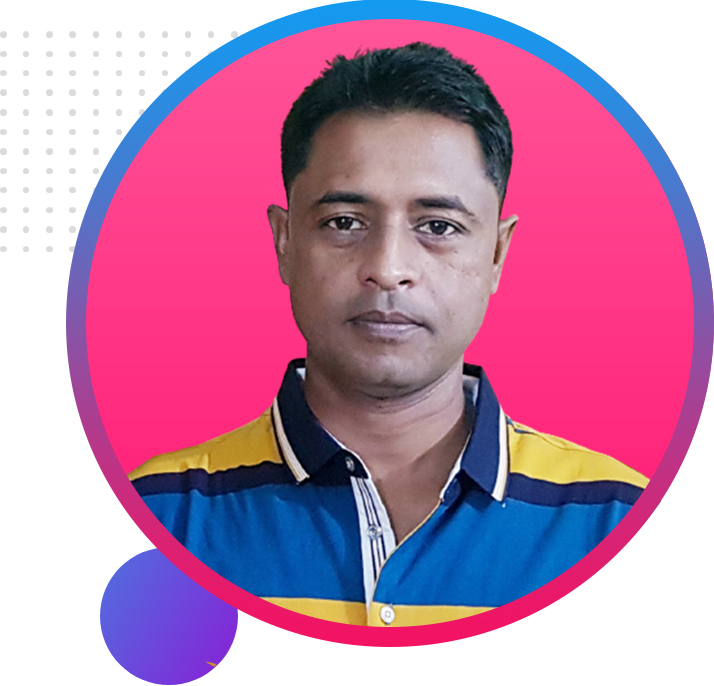
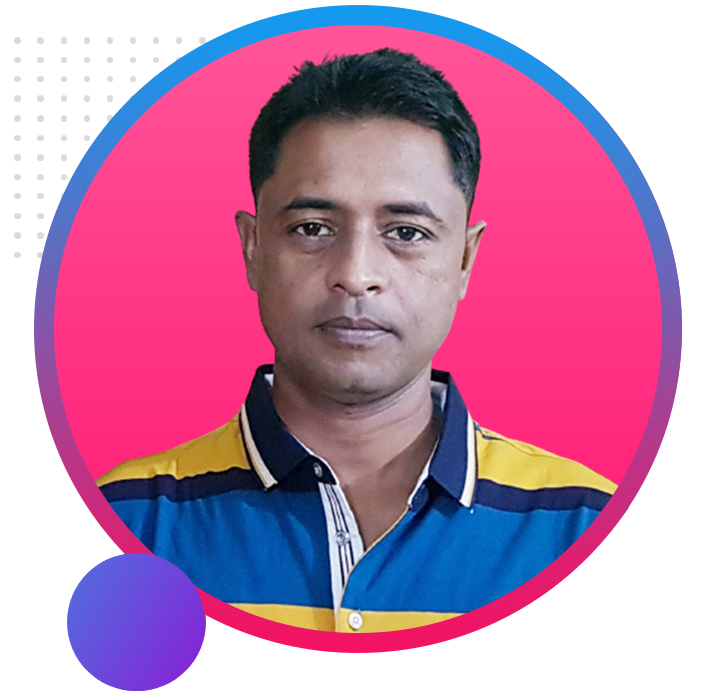
content updated

diff --git a/style.css b/style.css
@@ -15,7 +15,7 @@ body {
 }
 
 .content img {
-    width: 90%;
+    width: 100%;
 }
 
 h1 {
